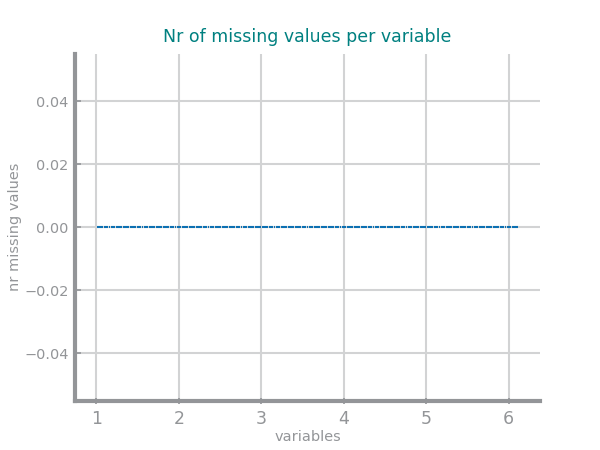
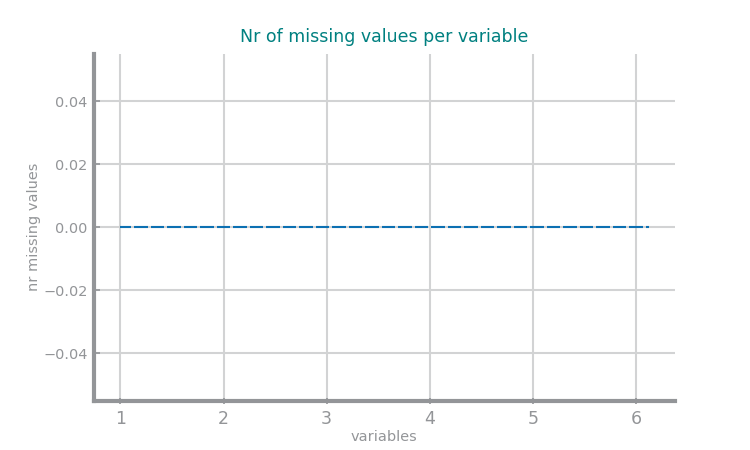
Improvements on dimensionality

diff --git a/Labs/Lab01/HFCR_dimensionality.py b/Labs/Lab01/HFCR_dimensionality.py
@@ -24,7 +24,7 @@ data[cat_vars.columns] = data.select_dtypes(['object']).apply(lambda x: x.astype
 print(data.dtypes)
 data.dtypes.to_csv(graphsDir + 'HFCR Dimensionality - Types of variables - Improvement.csv')
 
-plt.figure()
+plt.figure(figsize=(20,3))
 mv = {}
 for var in data:
     mv[var] = data[var].isna().sum()

diff --git a/Labs/Lab01/QOT_dimensionality.py b/Labs/Lab01/QOT_dimensionality.py
@@ -24,7 +24,7 @@ data[cat_vars.columns] = data.select_dtypes(['object']).apply(lambda x: x.astype
 print(data.dtypes)
 data.dtypes.to_csv(graphsDir + 'QOT Dimensionality - Types of variables - Improvement.csv')
 
-plt.figure()
+plt.figure(figsize=(5,3))
 mv = {}
 for var in data:
     mv[var] = data[var].isna().sum()
